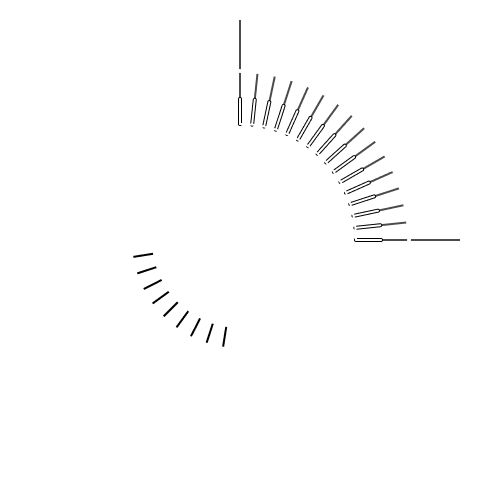
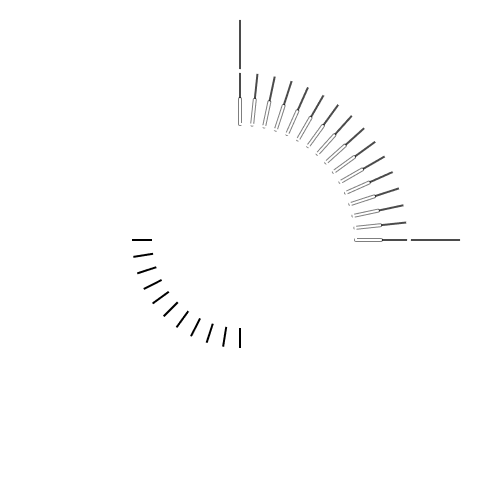
update layout

Changed region(s): [[0.5, 0.1875, 0.7812, 0.5]]

diff --git a/rider-1991/watchface/index.r.layout.js b/rider-1991/watchface/index.r.layout.js
@@ -15,8 +15,8 @@ export const TIME_POINTER_PROPS = {
   second_path: 'time/second.png',
 
   second_cover_path: 'time/center.png',
-  second_cover_x: SCREEN.centerX - px(26) / 2,
-  second_cover_y: SCREEN.centerY - px(26) / 2,
+  second_cover_x: SCREEN.centerX - px(30) / 2,
+  second_cover_y: SCREEN.centerY - px(30) / 2,
 
   minute_centerX: SCREEN.centerX,
   minute_centerY: SCREEN.centerY,
